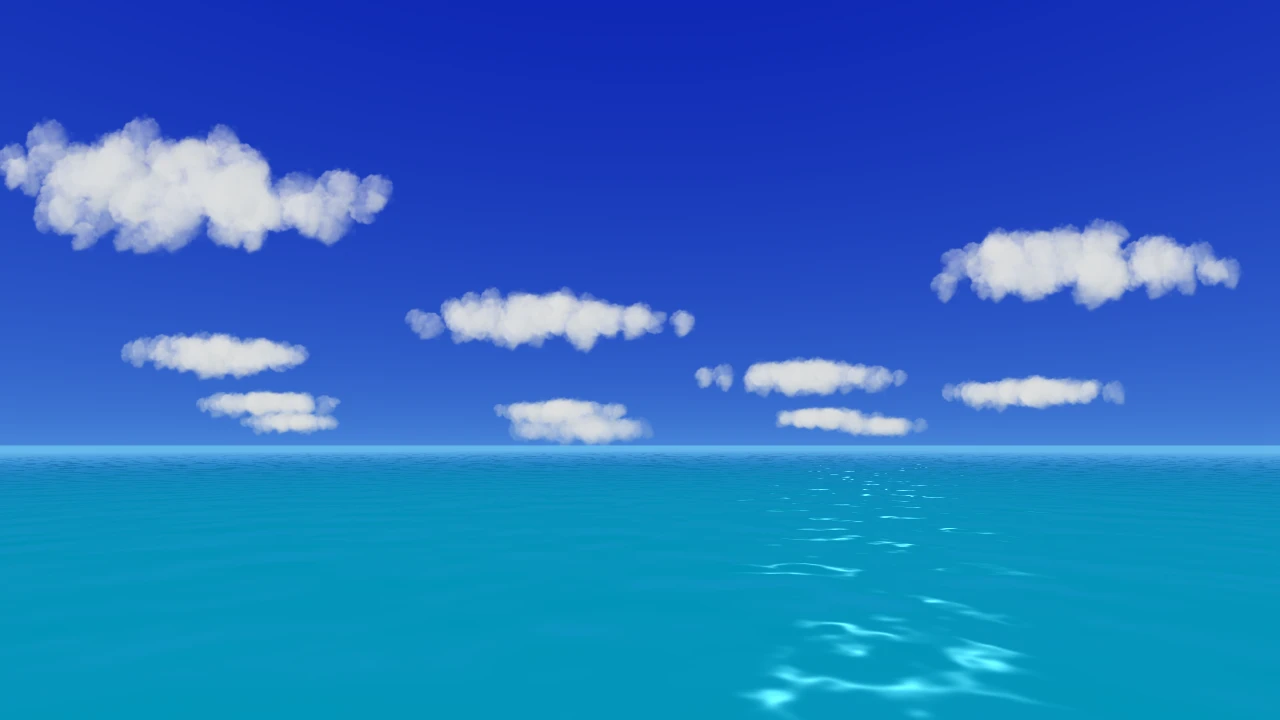
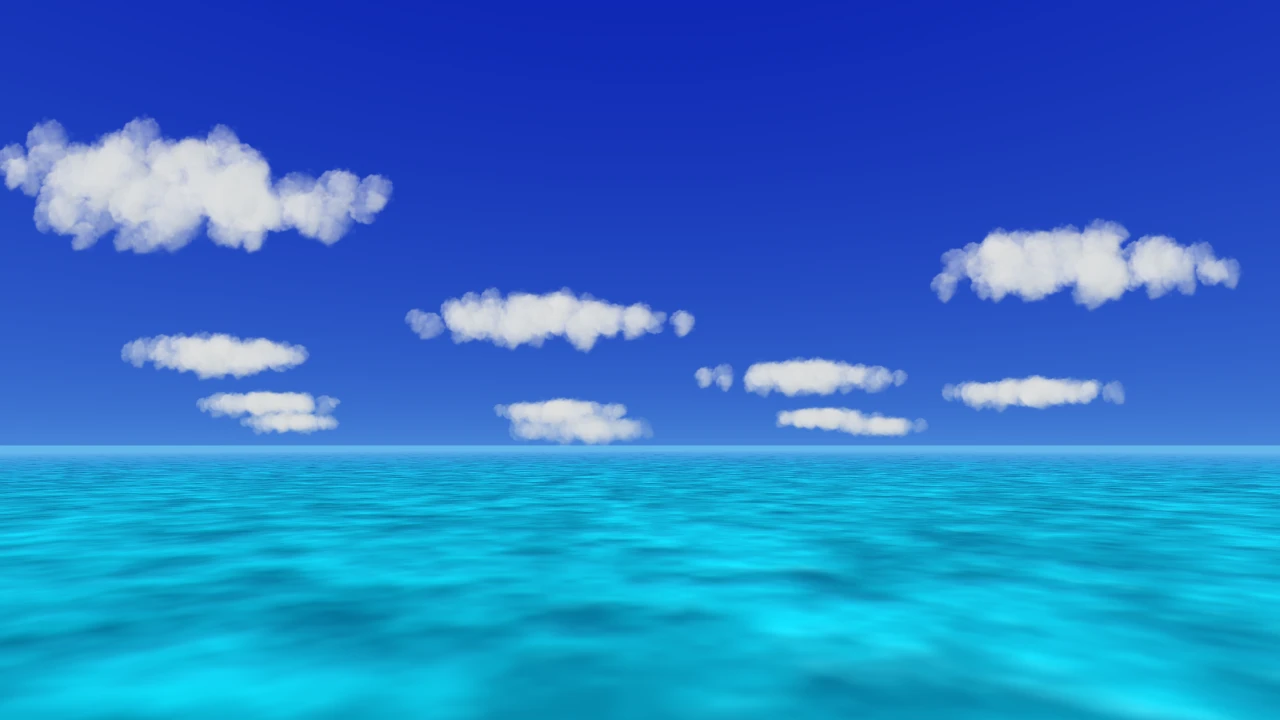
feat: 夜の山を表示できるよう修正し、Hero ブロックにホバー時のアクセントを追加
山が見えなかったのは、星(radius 60)が山(z=-300〜-560)より手前にあり、
真っ黒な稜線が星と夜空に埋もれていたため。星を外側(radius 400)へ移し、
山は renderOrder を下げて先に深度を書き込むようにして、稜線より下の星が
隠れるようにした。天の川も星より内側へ入るよう位置と大きさを調整。

ブロックのホバーは、ぼかしやフェードを使わずベタ塗りのアクセント面を
背面に置いて即座に出す。キーボード操作でも同じ反応になるよう
focus-within も見る。

Changed region(s): [[0.0, 0.6417, 1.0, 1.0], [0.4062, 0.8861, 0.5, 0.9167], [0.9688, 0.9167, 1.0, 0.9472]]

diff --git a/src/components/hero/sceneConfig.ts b/src/components/hero/sceneConfig.ts
@@ -14,12 +14,15 @@ export const POINTER_LOOK = {
   damping: 3,
 } as const;
 
-// mid は視線の高さ(=水平線)の色。ここを白っぽくすると水平線の霞になる
+// 太陽の向き。海面の映り込みに使う
+export const SUN = [0.3, 0.78, -0.5] as [number, number, number];
+
+// mid は視線の高さ(=水平線)の色。ここを白っぽくすると水平線の霞になる。
+// curve が小さいほど、低い仰角でも一気に top の青へ寄る。
 export const DAY_SKY = {
   top: "#0247d6",
   mid: "#a9dcf6",
   bottom: "#8fd0f2",
-  // 低い仰角でも真っ青まで持っていく。1 に近いほど水平線の薄い色が広がる
   curve: 0.34,
 } as const;
 
@@ -49,7 +52,7 @@ export const DAY_OCEAN: OceanPalette = {
   sky: "#7fccf2",
   haze: "#a9dcf6",
   sunColor: "#fffdf0",
-  sunDir: [0.34, 0.44, -1],
+  sunDir: SUN,
   sunPower: 340,
   sunStrength: 0.5,
   clarity: 0.65,
@@ -272,10 +275,12 @@ export const CLOUD_LAYER: readonly CloudMass[] = [
 export const CLOUD_LIMIT = 900;
 
 export const STARS = {
-  radius: 60,
-  depth: 50,
-  count: 14000,
-  factor: 5,
+  // 山や天の川より外側に置く。近いと星が山の手前に描かれてしまう
+  radius: 400,
+  depth: 200,
+  // 遠くへ置いたぶん、数と粒の大きさで見た目の密度を戻す
+  count: 22000,
+  factor: 18,
   saturation: 0.7,
   fade: true,
   speed: 0.6,
@@ -291,8 +296,9 @@ export const NIGHT_BG = "#05060d";
 
 // 水平線の上に横たわるように寝かせる
 export const MILKY_WAY = {
-  position: [14, 46, -150] as [number, number, number],
+  position: [44, 136, -500] as [number, number, number],
   rotation: [0.15, -0.1, 0.85] as [number, number, number],
+  size: [1060, 300] as [number, number],
 } as const;
 
 // 夜の下辺に置く山の稜線。板 1 枚で 1 つの尾根を描き、
@@ -315,8 +321,8 @@ export const MOUNTAINS = {
   tall: 600,
   centerY: -260,
   ridges: [
-    { z: -560, base: 8, height: 12, scale: 0.011, color: "#0e1430", seed: 3 },
-    { z: -420, base: 4, height: 14, scale: 0.014, color: "#080c1e", seed: 17 },
-    { z: -300, base: 0, height: 16, scale: 0.018, color: "#02030a", seed: 29 },
+    { z: -320, base: -14, height: 22, scale: 0.017, color: "#131c3a", seed: 3 },
+    { z: -230, base: -18, height: 20, scale: 0.024, color: "#0b1024", seed: 17 },
+    { z: -160, base: -22, height: 17, scale: 0.034, color: "#03040c", seed: 29 },
   ] as readonly MountainRidge[],
 } as const;

diff --git a/src/components/hero/HeroBlock.tsx b/src/components/hero/HeroBlock.tsx
@@ -2,27 +2,43 @@
 
 import { motion } from "framer-motion";
 import { HeroBackground } from "./HeroBackground";
+import { SITE } from "@/data/site";
 
-export function HeroBlock({ onClick }: { onClick?: () => void }) {
+export function HeroBlock({
+  onClick,
+  ariaLabel,
+}: {
+  onClick?: () => void;
+  ariaLabel: string;
+}) {
   return (
-    <motion.button
-      layoutId="hero-block"
-      type="button"
-      onClick={onClick}
-      aria-label="空の演出を全画面で表示"
-      className={`relative block h-full w-full overflow-hidden rounded-2xl ${
-        onClick ? "cursor-pointer" : "cursor-default"
-      }`}
-      transition={{ type: "spring", stiffness: 200, damping: 26 }}
-    >
-      <HeroBackground priority />
-      {/* 全画面から戻ってきたときにフェードインで復帰する(opacity は CSS 側) */}
-      <motion.span
-        layoutId="hero-logo"
-        className="hero-logo-in relative z-10 flex h-full items-center justify-center font-logo text-7xl text-[#1c1c1c] md:text-8xl dark:text-white"
+    <div className="group relative h-full w-full">
+      {/* ホバーするとアクセントがブロックの外へ染み出す。ぼかしや
+          フェードは使わず、ベタ塗りの面を背面に置いて即座に出す。
+          キーボード操作でも同じ反応にするため focus-within も見る。 */}
+      <span
+        aria-hidden
+        className="pointer-events-none absolute -inset-2 hidden rounded-[1.5rem] bg-accent group-hover:block group-focus-within:block"
+      />
+      <motion.button
+        layoutId="hero-block"
+        type="button"
+        onClick={onClick}
+        aria-label={ariaLabel}
+        className={`relative block h-full w-full overflow-hidden rounded-2xl outline-none ${
+          onClick ? "cursor-pointer" : "cursor-default"
+        }`}
+        transition={{ type: "spring", stiffness: 200, damping: 26 }}
       >
-        Riochin
-      </motion.span>
-    </motion.button>
+        <HeroBackground priority />
+        {/* 全画面から戻ってきたときにフェードインで復帰する(opacity は CSS 側) */}
+        <motion.span
+          layoutId="hero-logo"
+          className="hero-logo-in relative z-10 flex h-full items-center justify-center font-logo text-7xl text-[#1c1c1c] md:text-8xl dark:text-white"
+        >
+          {SITE.brand}
+        </motion.span>
+      </motion.button>
+    </div>
   );
 }

diff --git a/src/components/hero/HeroScene.tsx b/src/components/hero/HeroScene.tsx
@@ -12,10 +12,10 @@ import { Mountains } from "./Mountains";
 import { Ocean } from "./Ocean";
 import {
   CAMERA,
+  DAY_SKY,
   CLOUD_LAYER,
   CLOUD_LIMIT,
   DAY_OCEAN,
-  DAY_SKY,
   STARS,
   NIGHT_SKY,
   NIGHT_BG,
@@ -107,6 +107,9 @@ export default function HeroScene({
       // toDataURL でのキャプチャ時のみ必要。通常表示では性能上のコストになるので切る
       gl={{ preserveDrawingBuffer: exposeCapture }}
       onCreated={({ gl, scene, camera }) => {
+        // 素材の色はそのまま出したいので露出は等倍。空の輝度は DaySky 側で畳む
+        gl.toneMapping = THREE.ACESFilmicToneMapping;
+        gl.toneMappingExposure = 1;
         gl.domElement.addEventListener(
           "webglcontextlost",
           () => setAttempt((n) => (n < 2 ? n + 1 : n)),

diff --git a/src/components/hero/Mountains.tsx b/src/components/hero/Mountains.tsx
@@ -66,14 +66,15 @@ function Ridge({ ridge }: { ridge: MountainRidge }) {
   );
 
   return (
-    <mesh position={[0, MOUNTAINS.centerY, ridge.z]}>
+    // 星より先に描いて深度を書き込む。そうしないと星が山の上に載る
+    <mesh position={[0, MOUNTAINS.centerY, ridge.z]} renderOrder={-1}>
       <planeGeometry args={[MOUNTAINS.width, MOUNTAINS.tall]} />
       <shaderMaterial
         uniforms={uniforms}
         vertexShader={vertexShader}
         fragmentShader={fragmentShader}
         transparent
-        depthWrite={false}
+        depthWrite
       />
     </mesh>
   );

diff --git a/src/components/hero/MilkyWay.tsx b/src/components/hero/MilkyWay.tsx
@@ -57,7 +57,7 @@ export function MilkyWay() {
       position={[...MILKY_WAY.position]}
       rotation={[...MILKY_WAY.rotation]}
     >
-      <planeGeometry args={[320, 90]} />
+      <planeGeometry args={[...MILKY_WAY.size]} />
       <shaderMaterial
         uniforms={uniforms}
         vertexShader={vertexShader}
